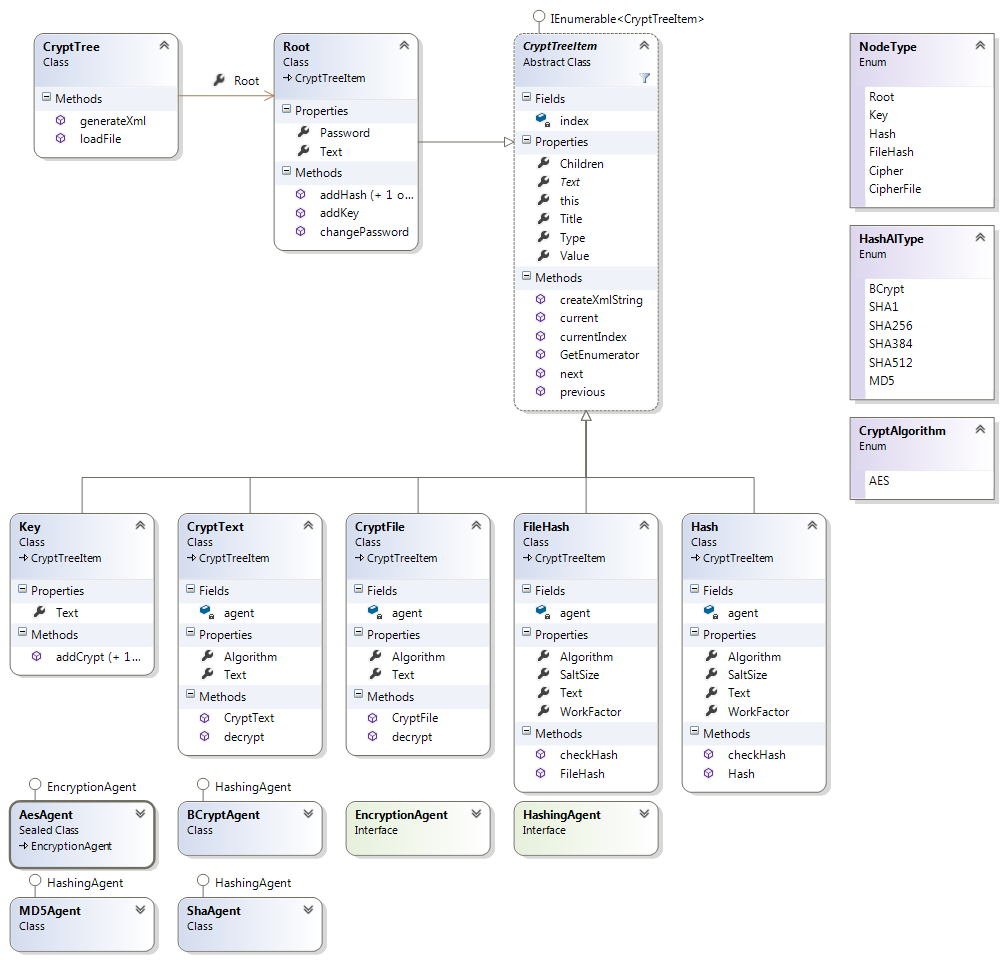
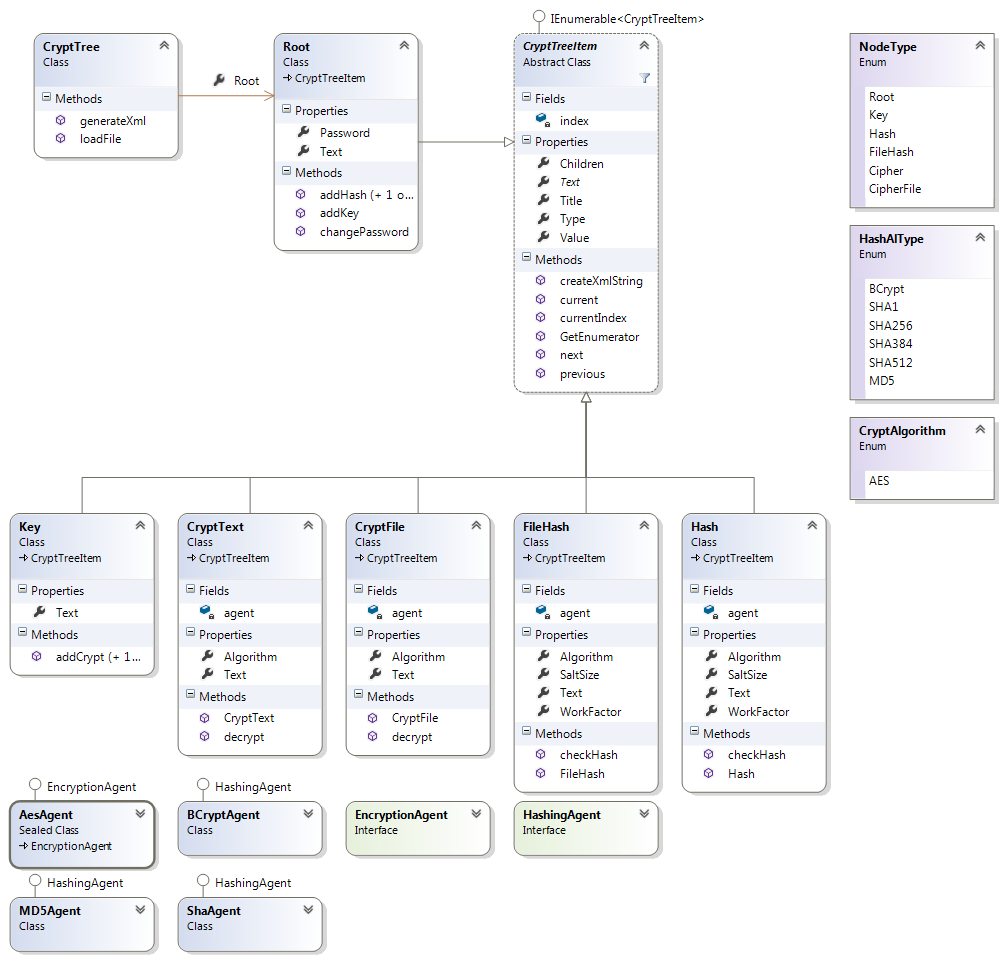
Implemented Root and begun test project

Changed region(s): [[0.5254, 0.1875, 0.68, 0.4375]]

diff --git a/EncryptionTree/Root.cs b/EncryptionTree/Root.cs
@@ -7,40 +7,57 @@ namespace EncryptionTree
 {
     public class Root : CryptTreeItem
     {
-        public string Password
+        private string password;
+
+        public override string Text
         {
-            get
+            get 
             {
-                throw new System.NotImplementedException();
-            }
-            set
-            {
+                return Title + " File";
             }
         }
 
-        public bool changePassword(string oldPassword, string newPassword)
+        public Root(string title, string password)
         {
-            throw new System.NotImplementedException();
+            Title = title;
+            BCryptAgent bca = new BCryptAgent();
+            string salt = bca.generateSalt(12);
+            this.password = bca.createHash(password, salt);
+            Type = NodeType.Root;
+        }
+
+        public bool changePassword(string newPassword)
+        {
+            BCryptAgent bca = new BCryptAgent();
+            if (bca.checkHash(newPassword, password))
+            {
+                string salt = bca.generateSalt(12);
+                password = bca.createHash(newPassword, salt);
+                return true;
+            }
+            else
+                return false;
         }
 
         public void addKey(Key key)
         {
-            throw new System.NotImplementedException();
+            Children.Add(key);
         }
 
         public void addHash(Hash hash)
         {
-            throw new System.NotImplementedException();
+            Children.Add(hash);
         }
 
         public void addHash(FileHash hash)
         {
-            throw new System.NotImplementedException();
+            Children.Add(hash);
         }
 
-        public override string Text
+        public bool checkPassword(string password)
         {
-            get { throw new NotImplementedException(); }
+            BCryptAgent bca = new BCryptAgent();
+            return bca.checkHash(password, this.password);
         }
     }
 }

diff --git a/EncryptionTreeUnitTests/Properties/AssemblyInfo.cs b/EncryptionTreeUnitTests/Properties/AssemblyInfo.cs
@@ -1,0 +1,36 @@
+using System.Reflection;
+using System.Runtime.CompilerServices;
+using System.Runtime.InteropServices;
+
+// General Information about an assembly is controlled through the following 
+// set of attributes. Change these attribute values to modify the information
+// associated with an assembly.
+[assembly: AssemblyTitle("EncryptionTreeUnitTests")]
+[assembly: AssemblyDescription("")]
+[assembly: AssemblyConfiguration("")]
+[assembly: AssemblyCompany("")]
+[assembly: AssemblyProduct("EncryptionTreeUnitTests")]
+[assembly: AssemblyCopyright("Copyright ©  2014")]
+[assembly: AssemblyTrademark("")]
+[assembly: AssemblyCulture("")]
+
+// Setting ComVisible to false makes the types in this assembly not visible 
+// to COM components.  If you need to access a type in this assembly from 
+// COM, set the ComVisible attribute to true on that type.
+[assembly: ComVisible(false)]
+
+// The following GUID is for the ID of the typelib if this project is exposed to COM
+[assembly: Guid("857231cc-2423-4b53-bf05-1d69cf479823")]
+
+// Version information for an assembly consists of the following four values:
+//
+//      Major Version
+//      Minor Version 
+//      Build Number
+//      Revision
+//
+// You can specify all the values or you can default the Build and Revision Numbers 
+// by using the '*' as shown below:
+// [assembly: AssemblyVersion("1.0.*")]
+[assembly: AssemblyVersion("1.0.0.0")]
+[assembly: AssemblyFileVersion("1.0.0.0")]

diff --git a/EncryptionTreeUnitTests/RootTests.cs b/EncryptionTreeUnitTests/RootTests.cs
@@ -1,0 +1,57 @@
+using System;
+using Microsoft.VisualStudio.TestTools.UnitTesting;
+using EncryptionTree;
+
+namespace EncryptionTreeUnitTests
+{
+    [TestClass]
+    public class RootTests
+    {
+        [TestMethod]
+        public void Root_Constructor_SetValues()
+        {
+            // arrange
+            string title = "Filename";
+            NodeType expectedType = NodeType.Root;
+
+            // act
+            Root root = new Root(title, "Random");
+
+            // assert
+            Assert.AreEqual(title, root.Title, false, "The title is not correct.");
+            Assert.AreEqual(expectedType, root.Type, "The type is different.");
+            string expectedText = "Filename File";
+            Assert.AreEqual(expectedText, root.Text, "The text was output incorrectly");
+        }
+        [TestMethod]
+        public void Root_changePassword_ValidPassword() 
+        {
+
+        }
+        [TestMethod]
+        public void Root_changePassword_InvalidPassword() 
+        {
+
+        }
+        [TestMethod]
+        public void Root_checkPassword_ValidPassword() 
+        {
+
+        }
+        [TestMethod]
+        public void Root_addKey_CountIncremented() 
+        {
+
+        }
+        [TestMethod]
+        public void Root_addHash_Text_CountIncremented()
+        {
+
+        }
+        [TestMethod]
+        public void Root_addHash_File_CountIncremented()
+        {
+
+        }
+    }
+}

diff --git a/EncryptionTree/Key.cs b/EncryptionTree/Key.cs
@@ -7,12 +7,7 @@ namespace EncryptionTree
 {
     public class Key : CryptTreeItem
     {
-        public void addCrypt(CryptText crypt)
-        {
-            throw new System.NotImplementedException();
-        }
-
-        public void addCrypt(CryptFile crypt)
+        public Key(string Title, string password)
         {
             throw new System.NotImplementedException();
         }
@@ -20,6 +15,16 @@ namespace EncryptionTree
         public override string Text
         {
             get { throw new NotImplementedException(); }
+        }
+
+        public void addCrypt(CryptFile crypt)
+        {
+            throw new System.NotImplementedException();
+        }
+
+        public void addCrypt(CryptText crypt)
+        {
+            throw new System.NotImplementedException();
         }
     }
 }

diff --git a/EncryptionTree/CryptTreeItem.cs b/EncryptionTree/CryptTreeItem.cs
@@ -67,5 +67,10 @@ namespace EncryptionTree
         {
             return this.GetEnumerator();
         }
+
+        public void move(int oldIndex, int newIndex)
+        {
+            throw new System.NotImplementedException();
+        }
     }
 }
